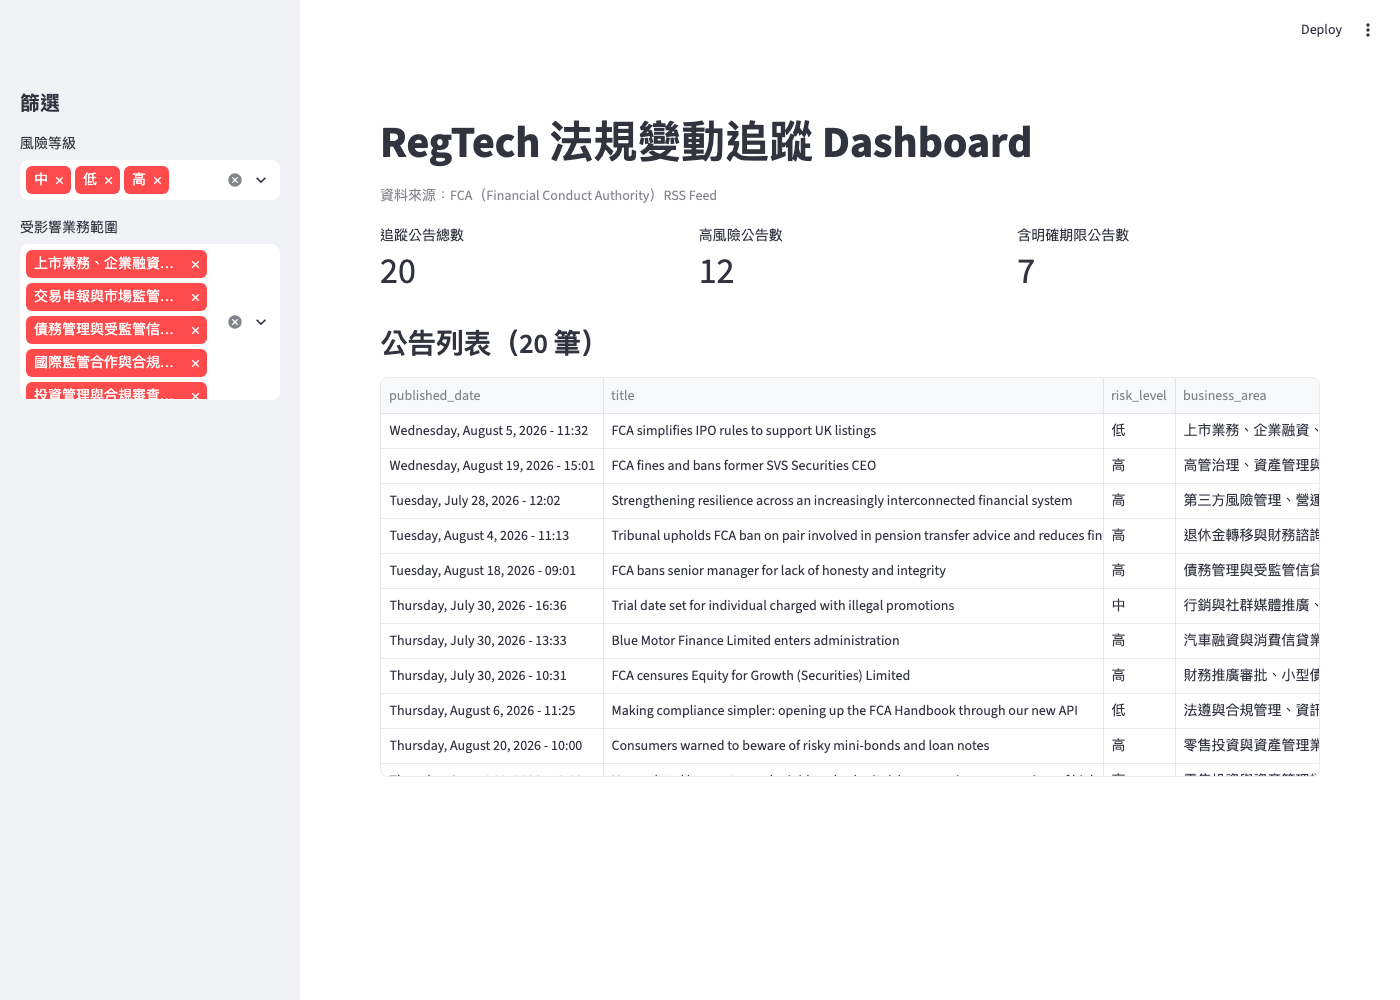
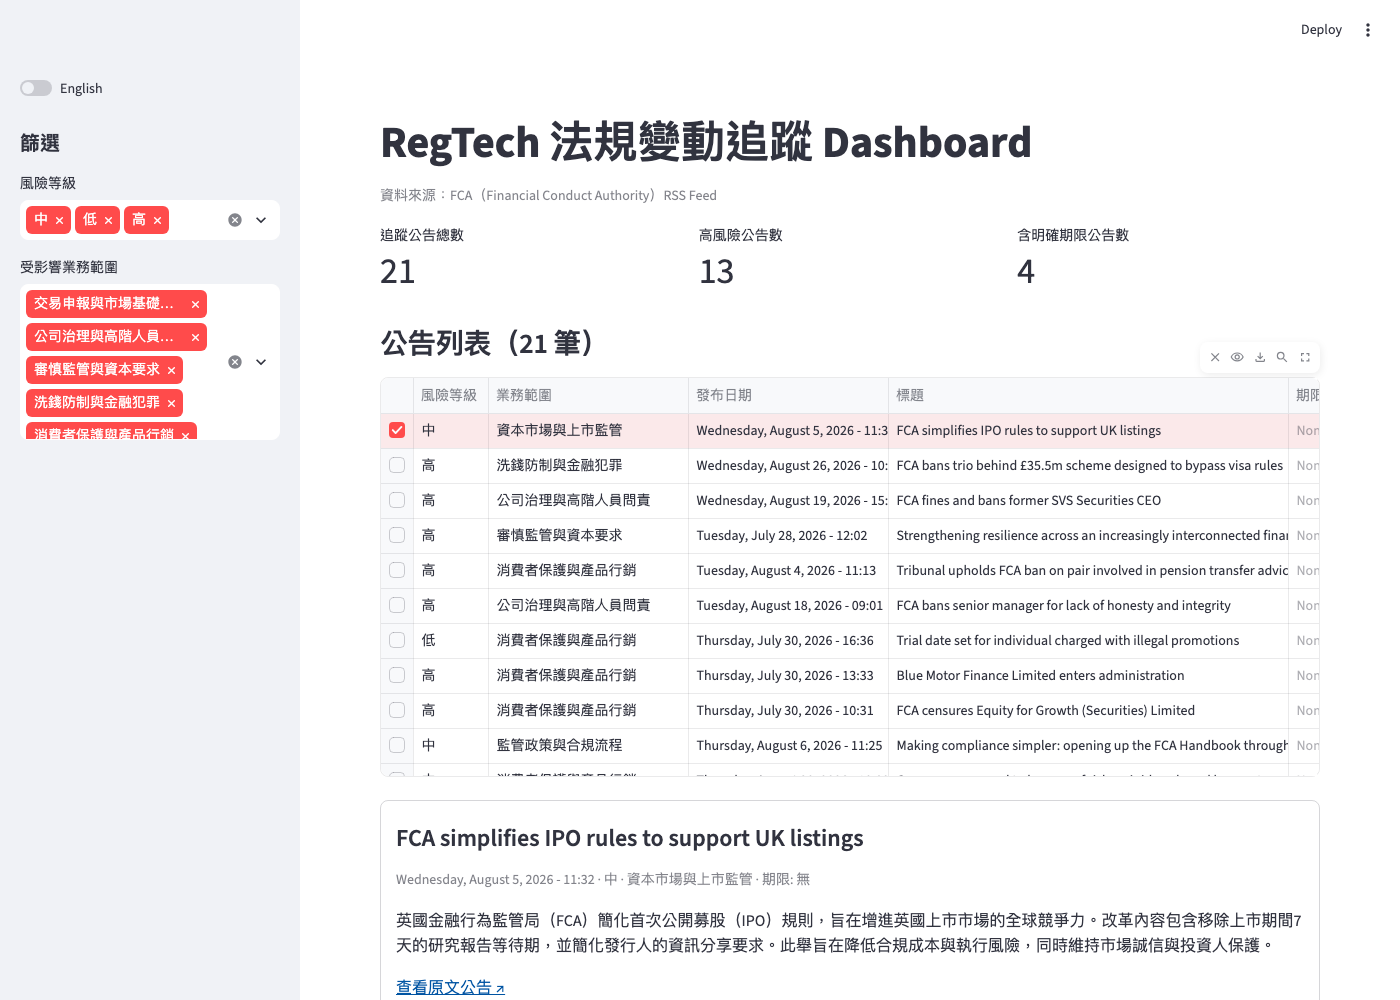
Fix table UX, replace free-text business_area with fixed taxonomy
- app.py: compact main table (risk/area/date/title), click a row to
  expand the full summary + link instead of losing them off-screen
- llm_client.py: business_area now picks one of 8 fixed categories
  instead of free text (was 20 near-unique values across 21 rows,
  making the filter meaningless); risk_level prompt now states an
  explicit rubric instead of "use your judgment"
- reclassify.py: new one-off utility to re-run classification on
  already-stored announcements after a prompt change; used it to
  refresh all 21 existing rows against the new prompt

diff --git a/app.py b/app.py
@@ -21,11 +21,15 @@ TEXT = {
         "area_filter": "受影響業務範圍",
         "subheader": "公告列表（{n} 筆）",
         "lang_toggle": "English",
+        "select_hint": "點選上方任一列，查看完整摘要與原文連結",
+        "detail_deadline": "期限",
+        "detail_deadline_none": "無",
+        "detail_link": "查看原文公告",
         "columns": {
             "published_date": "發布日期",
             "title": "標題",
             "risk_level": "風險等級",
-            "business_area": "受影響業務範圍",
+            "business_area": "業務範圍",
             "deadline": "期限",
             "summary": "摘要",
             "url": "連結",
@@ -43,6 +47,10 @@ TEXT = {
         "area_filter": "Business area",
         "subheader": "Announcements ({n})",
         "lang_toggle": "中文",
+        "select_hint": "Select a row above to see the full summary and original link",
+        "detail_deadline": "Deadline",
+        "detail_deadline_none": "None",
+        "detail_link": "View original announcement",
         "columns": {
             "published_date": "Published",
             "title": "Title",
@@ -105,9 +113,39 @@ filtered = df[df["risk_level"].isin(selected_risk) & df["business_area"].isin(se
 
 st.subheader(t["subheader"].format(n=len(filtered)))
 
-display_df = filtered[["published_date", "title", "risk_level", "business_area", "deadline", "summary", "url"]].copy()
+# 摘要/連結不進主表格（否則會被標題擠出畫面外）。表格只留「一眼能掃過」的分類欄位，
+# 點選某一列後在下方詳細卡片顯示完整摘要與原文連結。
+grid_cols = ["risk_level", "business_area", "published_date", "title", "deadline"]
+display_df = filtered[grid_cols].copy()
 if lang == "en":
     display_df["risk_level"] = display_df["risk_level"].map(lambda v: risk_display.get(v, v))
 display_df = display_df.rename(columns=t["columns"])
 
-st.dataframe(display_df, use_container_width=True, hide_index=True)
+event = st.dataframe(
+    display_df,
+    use_container_width=True,
+    hide_index=True,
+    on_select="rerun",
+    selection_mode="single-row",
+    column_config={
+        t["columns"]["risk_level"]: st.column_config.TextColumn(width="small"),
+        t["columns"]["business_area"]: st.column_config.TextColumn(width="medium"),
+        t["columns"]["published_date"]: st.column_config.TextColumn(width="medium"),
+        t["columns"]["title"]: st.column_config.TextColumn(width="large"),
+        t["columns"]["deadline"]: st.column_config.TextColumn(width="small"),
+    },
+)
+
+selected_rows = event.selection.rows if event and event.selection else []
+if selected_rows:
+    row = filtered.iloc[selected_rows[0]]
+    risk_label = risk_display.get(row["risk_level"], row["risk_level"])
+    deadline_label = row["deadline"] if pd.notna(row["deadline"]) else t["detail_deadline_none"]
+
+    with st.container(border=True):
+        st.markdown(f"#### {row['title']}")
+        st.caption(f"{row['published_date']}  ·  {risk_label}  ·  {row['business_area']}  ·  {t['detail_deadline']}: {deadline_label}")
+        st.write(row["summary"])
+        st.markdown(f"[{t['detail_link']} ↗]({row['url']})")
+else:
+    st.caption(t["select_hint"])

diff --git a/reclassify.py b/reclassify.py
@@ -1,0 +1,63 @@
+"""一次性工具：prompt 改版後，對資料庫裡既有的公告重新抓正文、重新分類、覆寫結果。
+（平常 pipeline.py 靠 url 去重不會重跑舊資料；prompt 改了才需要這支腳本回頭刷新歷史資料。）"""
+import sqlite3
+from datetime import datetime, timezone
+from pathlib import Path
+
+from dotenv import load_dotenv
+
+from fetch import fetch_article_text
+from llm_client import summarize_announcement
+
+load_dotenv()
+
+DB_PATH = Path(__file__).parent / "data" / "announcements.db"
+
+
+def run():
+    conn = sqlite3.connect(DB_PATH)
+    rows = conn.execute("SELECT url, title, risk_level, business_area FROM announcements").fetchall()
+
+    updated = 0
+    failed = 0
+    for url, title, old_risk, old_area in rows:
+        text = fetch_article_text(url)
+        if not text:
+            print(f"[跳過] 抓不到正文：{title}")
+            failed += 1
+            continue
+
+        result = summarize_announcement(title, text)
+        if result is None:
+            print(f"[跳過] LLM 解析失敗：{title}")
+            failed += 1
+            continue
+
+        conn.execute(
+            """
+            UPDATE announcements
+            SET summary = ?, business_area = ?, risk_level = ?, deadline = ?, fetched_at = ?
+            WHERE url = ?
+            """,
+            (
+                result.get("summary"),
+                result.get("business_area"),
+                result.get("risk_level"),
+                result.get("deadline"),
+                datetime.now(timezone.utc).isoformat(),
+                url,
+            ),
+        )
+        conn.commit()
+
+        changed = (old_risk != result.get("risk_level")) or (old_area != result.get("business_area"))
+        marker = "變動" if changed else "相同"
+        print(f"[{marker}] {old_risk}->{result.get('risk_level')} | {old_area} -> {result.get('business_area')} | {title}")
+        updated += 1
+
+    conn.close()
+    print(f"\n完成。更新 {updated} 筆，失敗跳過 {failed} 筆。")
+
+
+if __name__ == "__main__":
+    run()

diff --git a/README.md b/README.md
@@ -22,9 +22,13 @@ FCA RSS feed  ->  fetch article text  ->  LLM classification  ->  SQLite  ->  St
 ```
 
 1. **Fetch** — pull the FCA's public RSS feed, then fetch and parse the full text of each linked announcement.
-2. **Classify** — send the announcement to an LLM, which returns a structured JSON verdict: a 3-sentence summary, the affected business area, a risk level (high/medium/low), and a deadline if one is mentioned.
+2. **Classify** — send the announcement to an LLM, which returns a structured JSON verdict: a 3-sentence summary, a business area picked from a fixed 8-category taxonomy, a risk level (high/medium/low, against an explicit rubric — see below), and a deadline if one is mentioned.
 3. **Store** — persist to SQLite, keyed by URL, so re-running the pipeline never re-processes (or re-pays for) an announcement it's already seen.
-4. **Browse** — a Streamlit dashboard reads the database and lets you filter by risk level and business area. The interface chrome (labels, headers, metrics) toggles between Chinese and English; the LLM-generated summaries and business-area tags themselves stay in the language they were classified in (Chinese).
+4. **Browse** — a Streamlit dashboard reads the database and lets you filter by risk level and business area. The main table stays compact (risk, business area, date, title); click a row to expand the full summary and a link to the original announcement below it. The interface chrome (labels, headers, metrics) toggles between Chinese and English; the LLM-generated summaries and business-area tags themselves stay in the language they were classified in (Chinese).
+
+### Design note: a free-text classification is not a filter
+
+The first version let the LLM write `business_area` as free text. It technically worked, but across 21 real announcements it produced 20 nearly-unique values — the sidebar filter existed but filtered nothing, because almost every row was its own category. The fix was to give the LLM a fixed list of 8 categories (consumer protection, AML/financial crime, market conduct, prudential/capital, governance & accountability, capital markets & listings, transaction reporting & infrastructure, regulatory policy & ops) and instruct it to pick exactly one — no inventing, no combining. Re-classifying the same 21 announcements against the new prompt dropped that to 7 categories, meaningfully reused. `risk_level` got the same treatment: an explicit rubric (does it carry a deadline or a direct compliance obligation → high; industry trend/non-binding guidance → medium; personnel/organizational news → low) replaces "high/medium/low, use your judgment." See `PROJECT_SPEC.md` for the full before/after distribution.
 
 ## Tech stack
 
@@ -93,6 +97,7 @@ regtech-monitor/
 ├── fetch.py          # RSS + article text extraction
 ├── llm_client.py      # LLM classification, provider-agnostic
 ├── pipeline.py        # batch fetch -> classify -> store, with dedup + error handling
+├── reclassify.py       # one-off: re-run classification on existing rows after a prompt change
 ├── app.py              # Streamlit dashboard
 ├── data/
 │   └── announcements.db

diff --git a/PROJECT_SPEC.md b/PROJECT_SPEC.md
@@ -227,3 +227,5 @@ CREATE TABLE announcements (
 | 2026-08-26 | `.gitignore` 移除 `*.db` 排除規則，改為追蹤 `data/announcements.db` | 原始 `.gitignore` 排除 `*.db`，但第 5 階段選配的 5b（GitHub Actions 排程後要「把更新後的 .db commit 回 repo」）跟 5c（Streamlit Community Cloud 部署，需要 repo 裡本來就有資料，dashboard 才有東西可顯示）兩者都需要 db 被 git 追蹤，兩份規劃互相矛盾。決定追蹤 db，犧牲一點 git history 的乾淨度（binary diff）換取「repo clone 下來就能直接跑 dashboard 看到真實資料」的完整性 |
 | 2026-08-26 | 5c 部署到 Streamlit Community Cloud 時**沒有**額外設定任何 Secrets | 原本以為部署也要帶 `GEMINI_API_KEY`，後來確認 `app.py` 只讀本地 `data/announcements.db`，完全不呼叫 LLM API，抓取與分類都在 5b 的排程裡離線完成，dashboard 純粹是唯讀展示層。比原規劃更簡單 |
 | 2026-08-26 | `app.py` 加入介面文字中/英切換（sidebar toggle），範圍限定「介面文字」：標題、標籤、metric 名稱、表格欄位名稱、`risk_level` 的三個固定值（高/中/低 ↔ High/Medium/Low）。`summary`、`business_area` 這些 LLM 自由文字生成內容維持中文，不隨介面語言翻譯 | 使用者要求「中英文切換」，原本規劃外的追加需求。先確認範圍（只換介面文字，還是連 LLM 內容都要翻譯），後者需要改 schema、重新分類全部資料，工程量差很多；使用者選擇前者。`risk_level` 雖然是資料庫欄位，但因為是固定 3 個值的受控詞彙（不是自由文字），視為介面顯示的一部分一併翻譯，讓英文模式看起來完整、不會有殘留中文字 |
+| 2026-08-26 | `app.py` 主表格改版：欄位順序改為「風險等級／業務範圍／日期／標題／期限」，拿掉 `summary`、`url` 欄位，改成點選列後在下方展開詳細卡片（含完整摘要與原文連結） | 使用者實測發現：篩選器選了風險等級/業務範圍，但表格因為標題欄位過寬，這兩個欄位跟摘要根本被擠出畫面外，篩選完全看不到「為什麼」。改成緊湊表格＋點選展開，兼顧「一眼掃過分類」跟「需要時看完整內容」兩種需求 |
+| 2026-08-26 | `llm_client.py` 的 prompt 改版：`business_area` 從自由文字改成強制從固定 8 類清單擇一；`risk_level` 加入具體判準（有截止日期或直接合規義務＝高；產業趨勢/非強制指引＝中；人事/組織消息＝低）。新增 `reclassify.py`，對資料庫既有 21 筆重新抓正文、重新分類、覆寫結果 | 使用者發現 `business_area` 太細碎（21 筆對應 20 種近乎不重複的分類，篩選器形同虛設）。改版後降到 7 種、分布合理。`risk_level` 改版後「高」的筆數其實沒變（13/21），但分類邏輯從「憑感覺」變成「有明確依據」，且逐筆覆核後判斷大致合理（FCA 新聞本身執法/罰款/新規則比重確實高）。使用者確認先接受目前結果，不再進一步把「單一機構執法（非新規則）」下修為中風險 |
